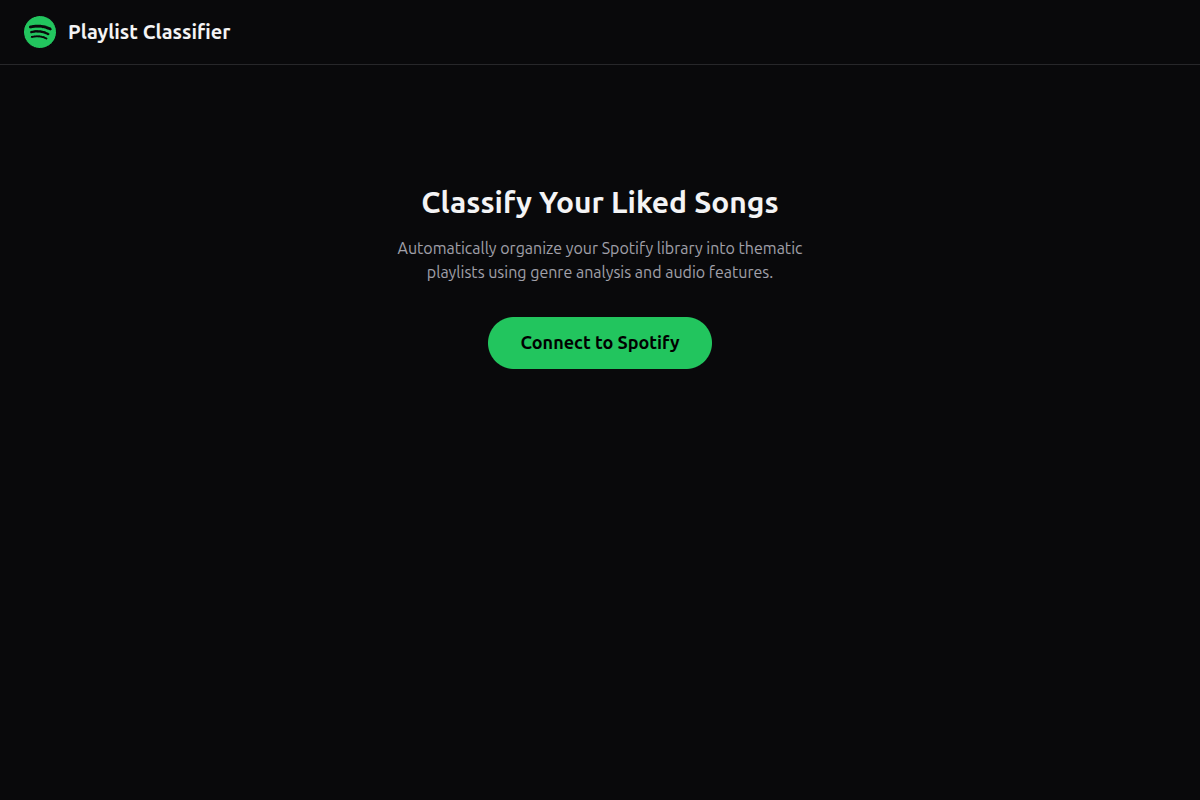
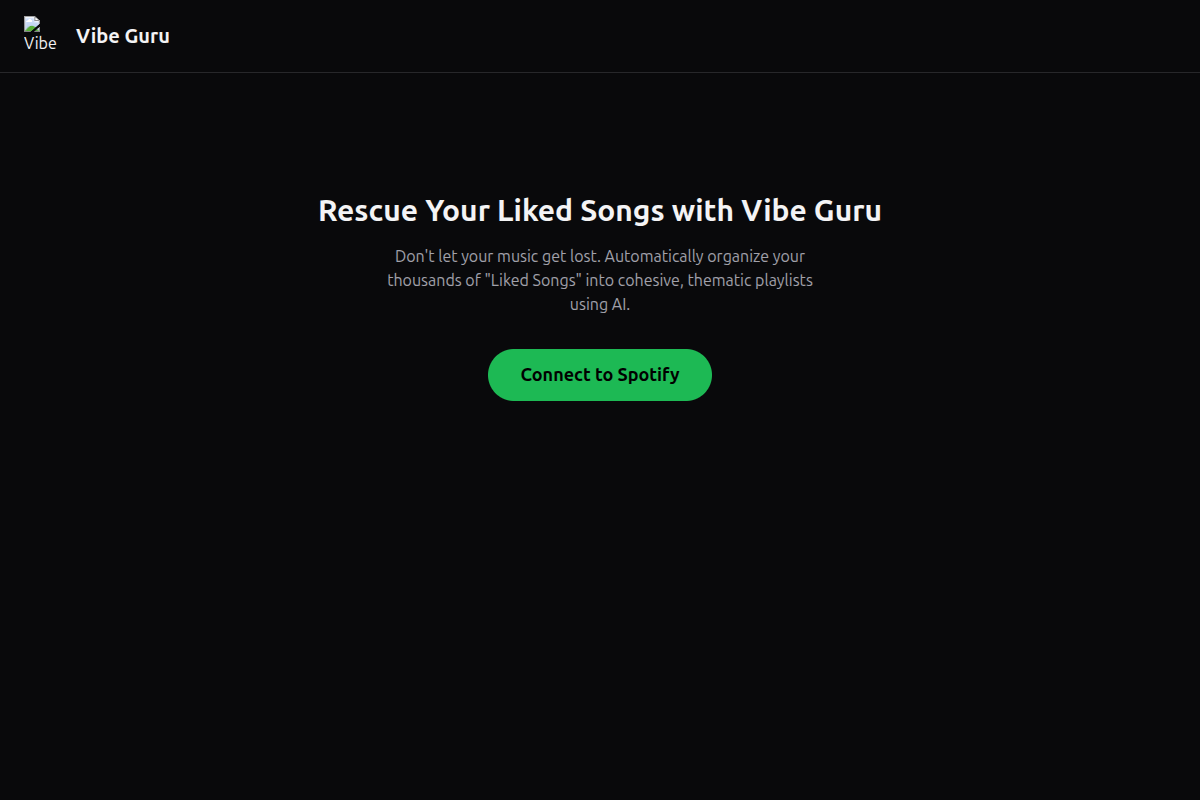
feat: rebrand project to Vibe Guru and update UI assets

Changed region(s): [[0.2467, 0.2188, 0.74, 0.5], [0.0, 0.0, 0.185, 0.0625]]

diff --git a/static/index.html b/static/index.html
@@ -3,7 +3,7 @@
 <head>
   <meta charset="UTF-8">
   <meta name="viewport" content="width=device-width, initial-scale=1.0">
-  <title>Spotify Playlist Classifier</title>
+  <title>Vibe Guru - AI Spotify Playlist Organizer</title>
   <script src="https://cdn.tailwindcss.com"></script>
   <script>
     tailwind.config = {
@@ -33,10 +33,8 @@
   <!-- Header -->
   <header class="border-b border-zinc-800 px-6 py-4 flex items-center justify-between">
     <div class="flex items-center gap-3">
-      <svg class="w-8 h-8 text-spotify" viewBox="0 0 24 24" fill="currentColor">
-        <path d="M12 0C5.4 0 0 5.4 0 12s5.4 12 12 12 12-5.4 12-12S18.66 0 12 0zm5.521 17.34c-.24.359-.66.48-1.021.24-2.82-1.74-6.36-2.101-10.561-1.141-.418.122-.779-.179-.899-.539-.12-.421.18-.78.54-.9 4.56-1.021 8.52-.6 11.64 1.32.42.18.479.659.301 1.02zm1.44-3.3c-.301.42-.841.6-1.262.3-3.239-1.98-8.159-2.58-11.939-1.38-.479.12-1.02-.12-1.14-.6-.12-.48.12-1.021.6-1.141C9.6 9.9 15 10.561 18.72 12.84c.361.181.54.78.241 1.2zm.12-3.36C15.24 8.4 8.82 8.16 5.16 9.301c-.6.179-1.2-.181-1.38-.721-.18-.601.18-1.2.72-1.381 4.26-1.26 11.28-1.02 15.721 1.621.539.3.719 1.02.419 1.56-.299.421-1.02.599-1.559.3z"/>
-      </svg>
-      <h1 class="text-xl font-bold">Playlist Classifier</h1>
+      <img src="assets/vibe-guru-logo-small.png" alt="Vibe Guru Logo" class="w-10 h-10 object-contain">
+      <h1 class="text-xl font-bold">Vibe Guru</h1>
     </div>
     <div id="user-info" class="text-sm text-zinc-400 hidden">
       <span id="user-name"></span>
@@ -49,9 +47,9 @@
     <!-- Screen 1: Auth -->
     <section id="screen-auth" class="hidden">
       <div class="text-center py-20">
-        <h2 class="text-3xl font-bold mb-4">Classify Your Liked Songs</h2>
+        <h2 class="text-3xl font-bold mb-4">Rescue Your Liked Songs with Vibe Guru</h2>
         <p class="text-zinc-400 mb-8 max-w-md mx-auto">
-          Automatically organize your Spotify library into thematic playlists using genre analysis and audio features.
+          Don't let your music get lost. Automatically organize your thousands of "Liked Songs" into cohesive, thematic playlists using AI.
         </p>
         <button onclick="login()" class="bg-spotify hover:bg-spotify-light text-black font-bold rounded-full px-8 py-3 text-lg transition-colors">
           Connect to Spotify
@@ -93,7 +91,7 @@
     <!-- Screen 3: Processing -->
     <section id="screen-processing" class="hidden">
       <div class="max-w-lg mx-auto py-12">
-        <h2 class="text-2xl font-bold mb-6">Classifying...</h2>
+        <h2 class="text-2xl font-bold mb-6">Vibe Guru is organizing...</h2>
 
         <!-- Progress bar -->
         <div class="w-full bg-zinc-800 rounded-full h-2 mb-8">

diff --git a/app.py b/app.py
@@ -16,7 +16,7 @@ from pipeline import PipelineRunner, SyncRunner
 
 load_dotenv()
 
-app = FastAPI(title="Spotify Playlist Classifier")
+app = FastAPI(title="Vibe Guru - AI Spotify Playlist Organizer")
 
 STATIC_DIR = Path(__file__).parent / "static"
 CACHE_DIR = Path(__file__).parent / ".cache"
